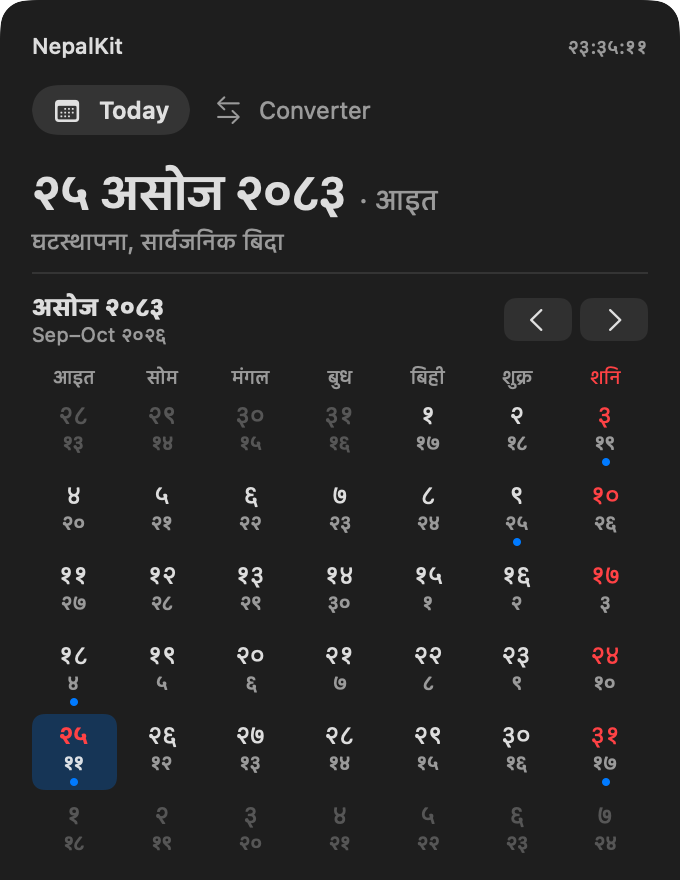
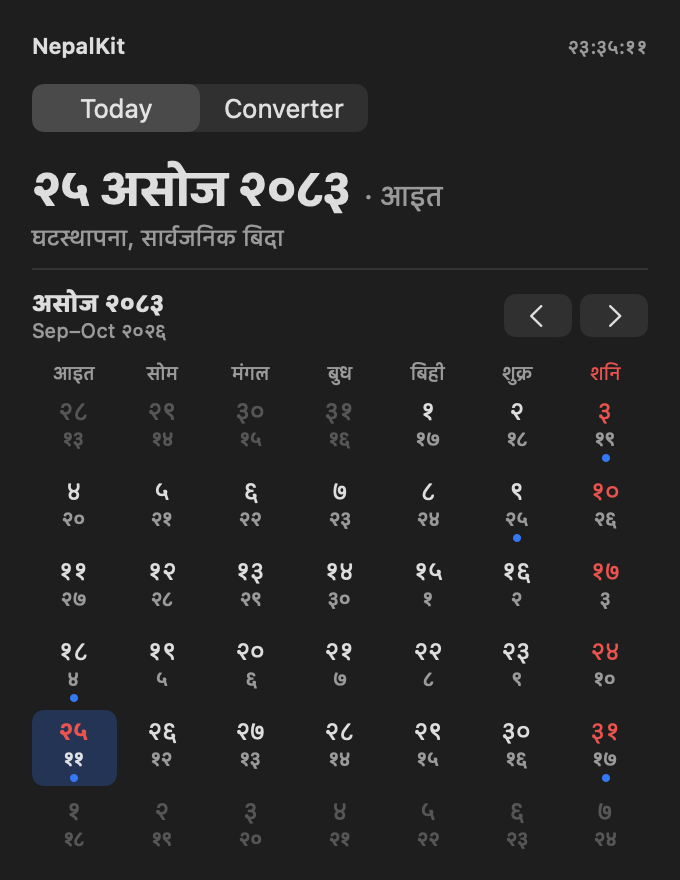
docs: screenshots show the segmented control and the Watch title
The popover shot is rendered at 2x from PopoverView with the preview
settings at the same moment as before (25 Ashoj 2083, 23:35:11 NPT), so
its alt text still holds; the footer is cropped as before because its
glass buttons do not render off-screen. The Watch shot is from the SE 3
40 mm Simulator, not a device, and shows the new red title, which the
alt text now names.

diff --git a/site/index.html b/site/index.html
@@ -259,7 +259,7 @@
       </div>
       <div class="watch-shots">
         <img src="img/watch-today.png" width="324" height="394" loading="lazy"
-             alt="NepalKit on Apple Watch showing the weekday, today's Bikram Sambat date, and the Gregorian date">
+             alt="NepalKit on Apple Watch showing the weekday, today's Bikram Sambat date, and the Gregorian date under the NepalKit title">
         <img src="img/watch-complications.png" width="422" height="514" loading="lazy"
              alt="An Infograph watch face with NepalKit corner complications showing the Bikram Sambat date along the bezel">
       </div>

diff --git a/README.md b/README.md
@@ -87,7 +87,7 @@ Date conversions currently work through Shortcuts. Siri cannot yet collect the c
 ## On the Apple Watch
 
 <p align="center">
-  <img src="docs/img/watch-today.png" alt="NepalKit on Apple Watch showing the weekday, today's Bikram Sambat date, and the Gregorian date" width="200" />
+  <img src="docs/img/watch-today.png" alt="NepalKit on Apple Watch showing the weekday, today's Bikram Sambat date, and the Gregorian date under the NepalKit title" width="200" />
   <img src="docs/img/watch-complications.png" alt="An Infograph watch face with NepalKit corner complications showing १७ असोज २०८३ along the bezel" width="200" />
 </p>
 
